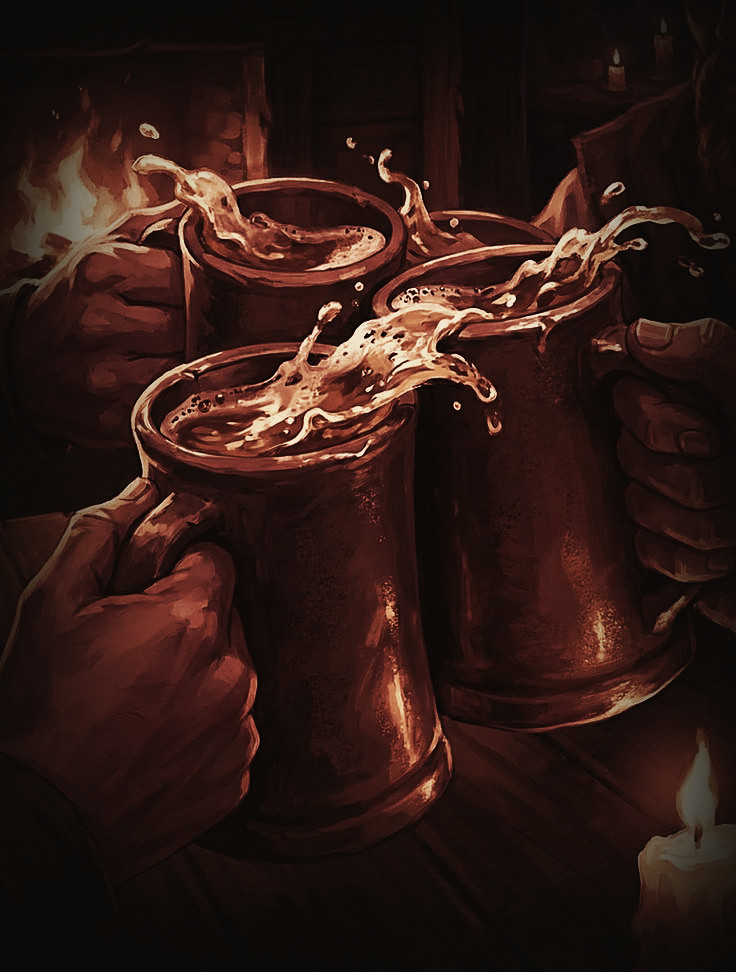
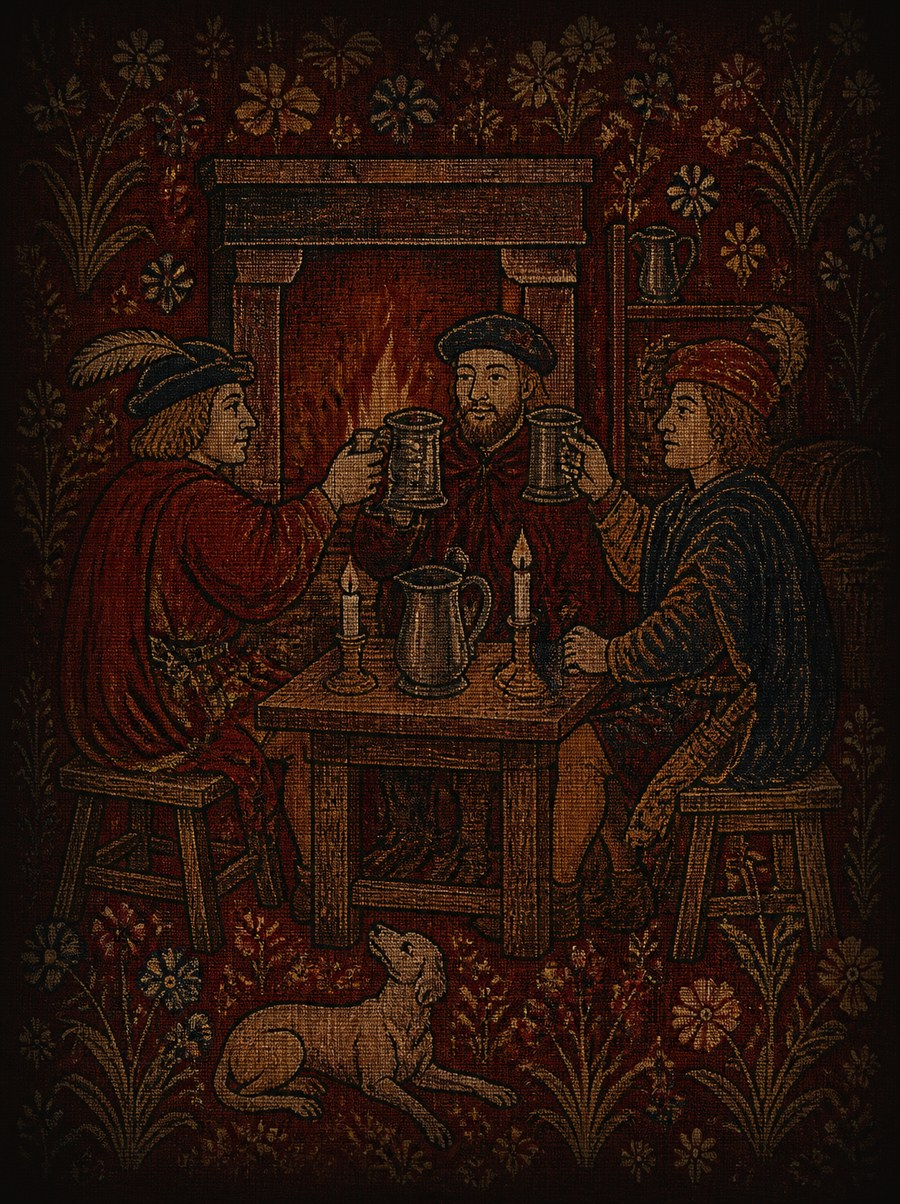
Replace the Tavern toast art with late medieval tapestry art
Claude-Session: https://claude.ai/code/session_017bDMAbSK4TPngBtGmabhQE

diff --git a/docs/index.html b/docs/index.html
@@ -69,7 +69,7 @@
 
   <main>
     <section class="tavern reveal" id="tavern" aria-labelledby="tavern-title">
-      <a class="tarot tarot-left" href="hub/" tabindex="-1" aria-hidden="true"><img src="assets/tavern-toast.jpg" alt="" width="736" height="972" loading="lazy"></a>
+      <a class="tarot tarot-left" href="hub/" tabindex="-1" aria-hidden="true"><img src="assets/tavern-toast.jpg" alt="" width="900" height="1204" loading="lazy"></a>
       <div class="tavern-text">
         <a class="emblem" href="hub/" aria-label="Enter the Tavern"><svg class="emblem-socket"><use href="#g-socket"/></svg><svg class="emblem-icon"><use href="#g-tankard"/></svg></a>
         <span class="tab">Campaign Hub</span>
